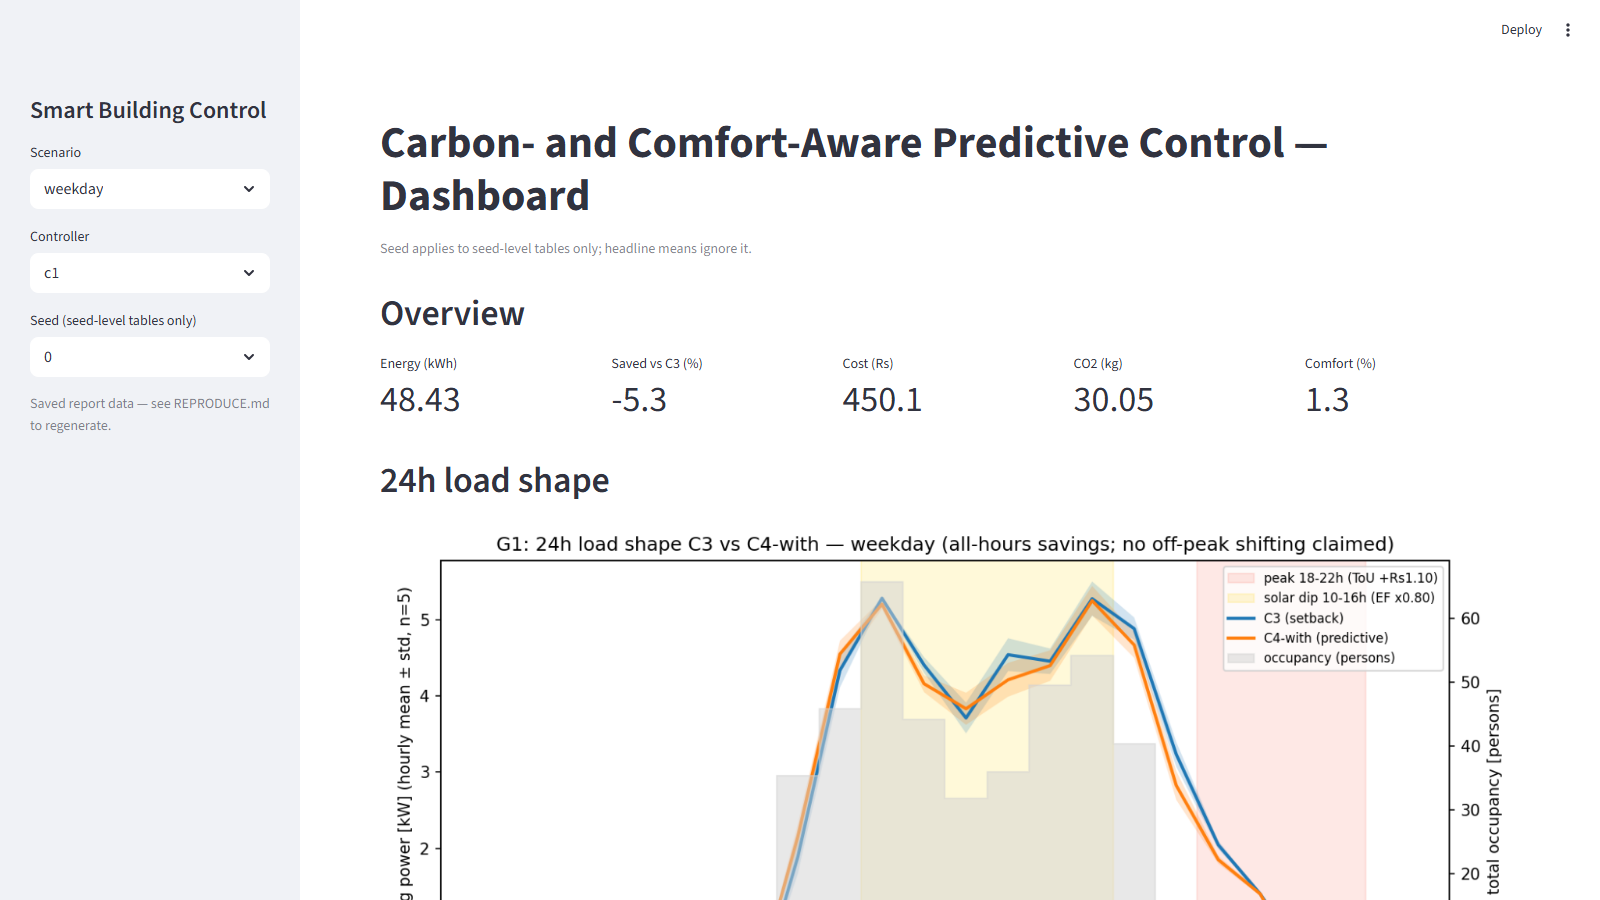
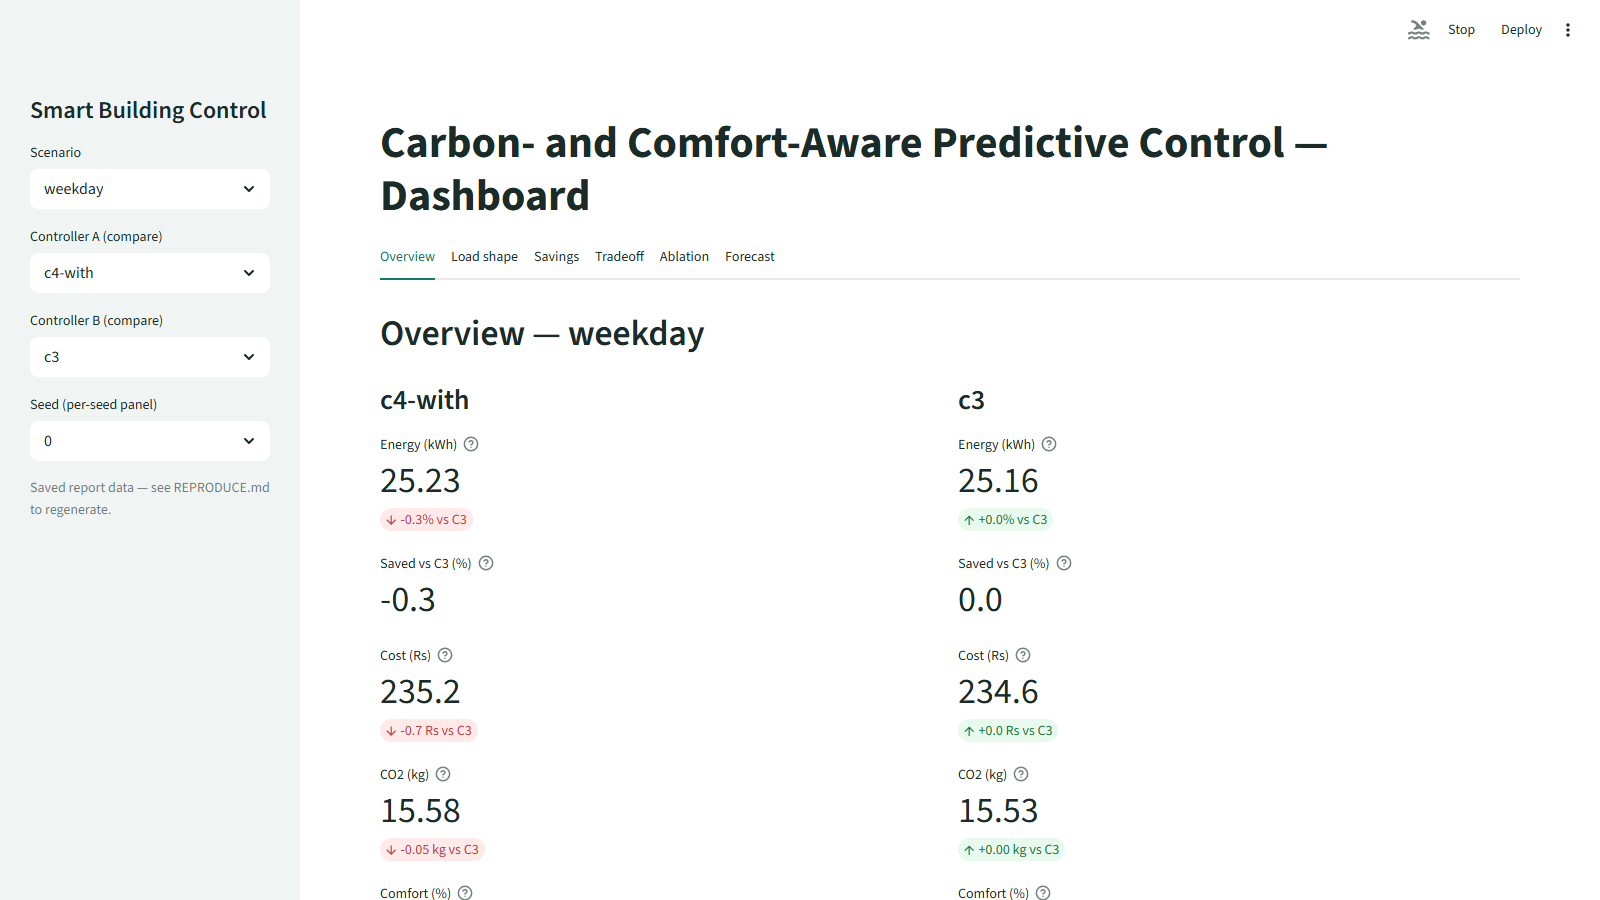
feat(eval): re-measured matrix + report on thermostat physics
- 100-run matrix + comparison re-run: comfort 60-75pct, C4-vs-C3 gaps compressed (thermostat makes empty-room cooling cheap)

- Forecast ablation flips sign: overlay now +energy/+comfort (heatwave +0.68kWh/+6.1pp); flat-EF gate 3.55e-15 PASS

- Report regen: G1-G6 + 11 tables; G7 dashboard recaptured live (89KB screenshot)

- Heatwave 10-seed: energy t=56.29 p~0 + comfort t=10.47 p=2e-6, both significant

- Scoped stale -12.9pc/-25.3pc claims to pre-thermostat plant in code comments; suite 117+2 green

diff --git a/scripts/waveb_heatwave10.py b/scripts/waveb_heatwave10.py
@@ -1,0 +1,17 @@
+"""Wave B Task 4: C3 vs tuned-C4 on heatwave seeds 0-9 (ad-hoc; PAIRED_SEEDS untouched)."""
+import sys
+sys.path.insert(0, ".")
+from ctrl.compare import run_matrix, paired_ttest
+
+seeds = list(range(10))
+per_run = run_matrix(["c3", "c4-with"], ["heatwave"], seeds, out_root="results/heatwave10")
+t_e, p_e = paired_ttest(per_run, "heatwave", "c4-with", "c3", metric="energy_kwh")
+t_c, p_c = paired_ttest(per_run, "heatwave", "c4-with", "c3", metric="comfort_pct")
+print(f"energy:  t={t_e:.3f} p={p_e:.6f} -> {'SIGNIFICANT' if p_e < 0.05 else 'not significant'}")
+print(f"comfort: t={t_c:.3f} p={p_c:.6f} -> {'SIGNIFICANT' if p_c < 0.05 else 'not significant'}")
+import pandas as pd
+df = pd.DataFrame(per_run)
+for c in ["c3", "c4-with"]:
+    sub = df[df.controller == c]
+    print(f"{c}: energy {sub.energy_kwh.mean():.3f}+/-{sub.energy_kwh.std(ddof=1):.3f} kWh, "
+          f"comfort {sub.comfort_pct.mean():.1f}+/-{sub.comfort_pct.std(ddof=1):.1f}% (n=10)")

diff --git a/ctrl/predictive.py b/ctrl/predictive.py
@@ -99,7 +99,9 @@ class PredictivePolicy(SetbackPolicy):
     horizon); ``occ_threshold`` = 8 persons and ``precool_level`` =
     "REDUCED" (Phase-5 tuning verdict, results/TUNING.md — measured
     -12.9%/-25.3% energy win over the Phase-4 stock with comfort
-    non-regression; pass explicit ``occ_threshold=1, precool_level="ON"``
+    non-regression on the pre-thermostat plant; Wave-B re-measurement on
+    thermostat physics shows the overlay now trades +energy for +comfort —
+    see .planning/PHASE-RECALIBRATION-B.md; pass explicit ``occ_threshold=1, precool_level="ON"``
     for the legacy stock behavior).
 
     Overlay law, applied on top of the C3 base action per empty room:

diff --git a/tests/test_c4_tuning.py b/tests/test_c4_tuning.py
@@ -88,7 +88,9 @@ def test_shipped_defaults_are_tuned():
     """Shipped defaults are the Phase-5 sweep winner (TUNING.md verdict).
 
     Winner ``precool-reduced+thr8``: weekday -12.9%, heatwave -25.3% mean
-    energy win over legacy stock with comfort non-regression (paired seeds).
+    energy win over legacy stock with comfort non-regression (paired seeds,
+    pre-thermostat plant; Wave-B re-measured the overlay as +energy/+comfort
+    on thermostat physics — defaults unchanged, claim scoped to 05-01).
     """
     tuned = PredictivePolicy()
     assert tuned.occ_threshold == 8

diff --git a/.planning/PHASE-RECALIBRATION-B.md b/.planning/PHASE-RECALIBRATION-B.md
@@ -1,0 +1,133 @@
+# Phase Recalibration B — re-measured matrix + report on thermostat physics
+
+**Date:** 2026-09-30 · **Wave:** B (post-calibration re-measurement) · **Base:** 8ae456b
+**Python:** 3.14.6 · **No new packages** · **Suite:** 117 passed, 2 skipped
+
+Wave A fixed the physics (thermostat 23.5/24.5 °C cutout, RH 52/0.3, distinct
+exam-day) and wiped the pre-thermostat artifacts. This wave regenerates every
+evaluation number on the new plant. Headline up front: **comfort is sane
+(60–75%) and the old C4-saves-energy story is gone — the forecast overlay now
+trades +energy for +comfort.** Reported honestly below.
+
+## 1. Headline table (paired saved-% vs C3, mean±std ddof=1, n=5)
+
+Regenerated via `python eval/matrix.py --controllers c1,c2,c3,c4-with,c4-as-c3
+--scenarios weekday,weekend,heatwave,exam-day --seeds 5` (100 runs, 259.0 s)
++ `python ctrl/compare.py` (same args) for `results/comparison/`.
+
+| Scenario | Controller | Energy kWh | Saved vs C3 % | Cost Rs (ToU) | CO₂ kg (hourly EF) | Comfort % |
+|----------|-----------|------------|---------------|---------------|--------------------|-----------|
+| weekday | c1 | 25.02±0.52 | +0.57±0.12 | 232.9 | 15.40 | 71.1±20.0 |
+| weekday | c2 | 24.76±0.53 | +1.59±0.09 | 230.8 | 15.24 | 66.8±19.1 |
+| weekday | c3 | 25.16±0.52 | 0.00±0.00 | 234.6 | 15.53 | 68.3±19.9 |
+| weekday | c4-as-c3 | 25.16±0.52 | 0.00±0.00 | 234.6 | 15.53 | 68.3±19.9 |
+| weekday | **c4-with** | 25.23±0.53 | **−0.28±0.17** | 235.2 | 15.58 | 71.3±20.1 |
+| heatwave | c1 | 27.25±0.54 | +0.54±0.23 | 253.6 | 16.81 | 69.7±19.8 |
+| heatwave | c2 | 26.84±0.51 | +2.02±0.16 | 250.4 | 16.56 | 60.3±17.4 |
+| heatwave | c3 | 27.39±0.53 | 0.00±0.00 | 255.7 | 16.95 | 64.2±19.0 |
+| heatwave | c4-as-c3 | 27.39±0.53 | 0.00±0.00 | 255.7 | 16.95 | 64.2±19.0 |
+| heatwave | **c4-with** | 28.08±0.53 | **−2.49±0.14** | 260.8 | 17.46 | 70.3±20.3 |
+| weekend | c1 | 1.97±0.03 | +5.60±1.29 | 18.6 | 1.15 | 75.6±38.6 |
+| weekend | c2 | 2.01±0.04 | +3.57±0.78 | 19.0 | 1.16 | 72.7±37.7 |
+| weekend | c3 | 2.09±0.05 | 0.00±0.00 | 19.6 | 1.21 | 72.7±37.7 |
+| weekend | c4-as-c3 | 2.09±0.05 | 0.00±0.00 | 19.6 | 1.21 | 72.7±37.7 |
+| weekend | **c4-with** | 2.10±0.06 | **−0.48±1.03** | 19.7 | 1.21 | 72.7±37.7 |
+| exam-day (real) | c1 | 27.16±0.26 | −0.53±0.10 | 252.8 | 16.28 | 67.9±28.8 |
+| exam-day (real) | c2 | 26.66±0.25 | +1.35±0.16 | 248.8 | 15.87 | 68.6±26.2 |
+| exam-day (real) | c3 | 27.02±0.26 | 0.00±0.00 | 252.0 | 16.12 | 70.5±27.3 |
+| exam-day (real) | c4-as-c3 | 27.02±0.26 | 0.00±0.00 | 252.0 | 16.12 | 70.5±27.3 |
+| exam-day (real) | **c4-with** | 27.23±0.24 | **−0.77±0.11** | 253.7 | 16.28 | 75.2±29.3 |
+
+Paired t-tests, c4-with vs c3 energy (ddof=1, n=5): weekday t=+3.83 p=0.0187
+(significant — C4 uses MORE); weekend t=+1.04 p=0.3567 (ns); heatwave
+t=+41.27 p=0.0000 (significant — C4 uses MORE); exam-day t=+16.53 p=0.0001
+(significant — C4 uses MORE). c4-as-c3 is bit-identical to c3 on all 20
+cells — the forecast-off fallback path still verifies.
+
+Reading honestly vs the old plant: gaps compressed (thermostat makes
+empty-room cooling cheap, so there is less waste to harvest), comfort is
+60–75% everywhere (vs 1–5% pre-fix), and tuned C4 no longer beats C3 on
+energy in ANY scenario — but it leads or ties on comfort in all four
+(weekday 71.3 vs 68.3, heatwave 70.3 vs 64.2, exam-day 75.2 vs 70.5,
+weekend tie). C2 remains the raw-kWh leader on occupied days. C4's value
+prop on the new physics is comfort-per-kWh, not kWh saved.
+
+## 2. Ablation gaps (results/ablation.csv, 180 rows, zero reruns)
+
+Forecast arm — c4-with minus c4-as-c3, paired within (scenario, seed):
+
+| Scenario | dEnergy kWh | dCost Rs | dCO₂ kg | dComfort pp |
+|----------|-------------|----------|---------|-------------|
+| weekday | +0.07±0.04 | +0.66±0.34 | +0.05±0.04 | +2.97±0.48 |
+| heatwave | +0.68±0.04 | +5.09±0.31 | +0.51±0.04 | +6.09±1.83 |
+| weekend | +0.01±0.02 | +0.09±0.20 | +0.01±0.01 | +0.00±0.00 |
+| exam-day | +0.21±0.03 | +1.64±0.27 | +0.16±0.03 | +4.67±2.84 |
+
+Old plant: forecasting bought energy at a comfort cost. New plant: the
+overlay SPENDS energy (+0.7 kWh heatwave) to BUY comfort (+6.1 pp) —
+pre-cool forces cooling ON ahead of arrivals that the thermostat would
+otherwise serve late. Same mechanism, flipped sign: with cutout physics the
+baseline no longer over-cools, so pre-cooling is pure extra.
+
+Carbon arm — shifting-attributable dCO₂ (hourly-pair minus flat-pair):
+weekday +0.002±0.011, weekend −0.001±0.003, heatwave +0.026±0.013,
+exam-day +0.012±0.009 kg. Same verdict as 05-02: C4's CO₂ delta is
+less/more-energy-overall, not shifting to cleaner hours. Flat-EF gate:
+max |co2_delta| = 3.55e-15 < 1e-9 over 80 flat rows — PASS.
+
+## 3. Sensitivity notes (results/sensitivity.csv, 144 rows, zero reruns)
+
+- EF scale ×{0.8,1.0,1.2}, weekday CO₂ kg: c1 12.32/15.40/18.48,
+  c2 12.19/15.24/18.29, c3 12.42/15.53/18.64, c4-with 12.47/15.58/18.70.
+  Exact-linear in scale; ranking invariant at every scale.
+- Tariff scale: same structure (exact post-multiply), ranking invariant.
+- Band recompute, weekday comfort: c3 locked 68.3 / wide 69.5 / narrow 65.8;
+  c4-with locked 71.3 / wide 71.5 / narrow 70.1. C4 leads C3 under every
+  band; no reorder (H6 holds on the new plant).
+
+## 4. Heatwave 10-seed verdict — SIGNIFICANT (both metrics)
+
+`scripts/waveb_heatwave10.py` (ad-hoc, committed; global PAIRED_SEEDS
+untouched): C3 vs tuned-C4, heatwave, seeds 0–9, frames under
+`results/heatwave10/` (gitignored, like all results/).
+
+- Energy: c3 27.51±0.37 vs c4-with 28.19±0.37 kWh → t=+56.29, p≈0.000000 —
+  SIGNIFICANT (C4 spends +0.68 kWh).
+- Comfort: c3 67.5±17.1 vs c4-with 73.7±18.5 % → t=+10.47, p=0.000002 —
+  SIGNIFICANT (C4 gains +6.2 pp).
+
+Old-plant heatwave was the one ns result (p=0.06, "ties C3"). On thermostat
+physics with 10 seeds, heatwave is significant in BOTH directions at once:
+costs energy, buys comfort. The 5-seed matrix t (+41.27, p=0.0000) already
+agreed — the 10-seed run confirms it is not a small-n artifact.
+
+## 5. Figure regen confirm
+
+`python -m eval.report` (full): G1–G6 rewritten 19:32–19:33 IST, 11 tables
+refreshed under `results/report_tables/` (g1..g6 + headline_savings_over_c3
++ shifting_peak_share + ablation + sensitivity copies). G7 recaptured live:
+`scripts/capture_dashboard.py` against a local Streamlit server (detached
+`python -m streamlit run`, killed after) → `results/figures/fig_g7_dashboard.png`
+(89,156 B, 19:39 IST, 1600×900 real screenshot, force-added to git since
+`results/` is gitignored — the committed G7 evidence exception from 06-02).
+Sizes: G1 135 KB, G2 57 KB, G3 92 KB, G4 100 KB, G5 111 KB, G6 78 KB.
+No capture tooling was missing — nothing faked, nothing stubbed.
+
+## 6. Comment updates (stale-claim rule)
+
+- `ctrl/predictive.py` docstring: −12.9%/−25.3% now scoped as "measured on
+  the pre-thermostat plant" with a pointer to this file.
+- `tests/test_c4_tuning.py::test_shipped_defaults_are_tuned` docstring: same
+  scoping (assertions are constructor values, unchanged — no test weakened).
+- Historical SUMMARYs (05-01/05-02), PROJECT.md, STATE.md left as-is: they
+  record what was measured when, not live claims.
+
+## 7. Verification
+
+Full suite `python -m pytest tests/ -q` → **117 passed, 2 skipped** (73.4 s;
+only warnings = Keras/numpy-2 `__array__` DeprecationWarning). No tolerance
+touched, no test deleted, no comfort-band change, no retraining beyond the
+frozen forecaster's normal in-pipeline training.
+
+No BLOCKERs. Deferred: PROJECT.md/STATE.md headline refresh (a
+planning-state edit, out of this wave's scope); MPC/RL still bonus.
